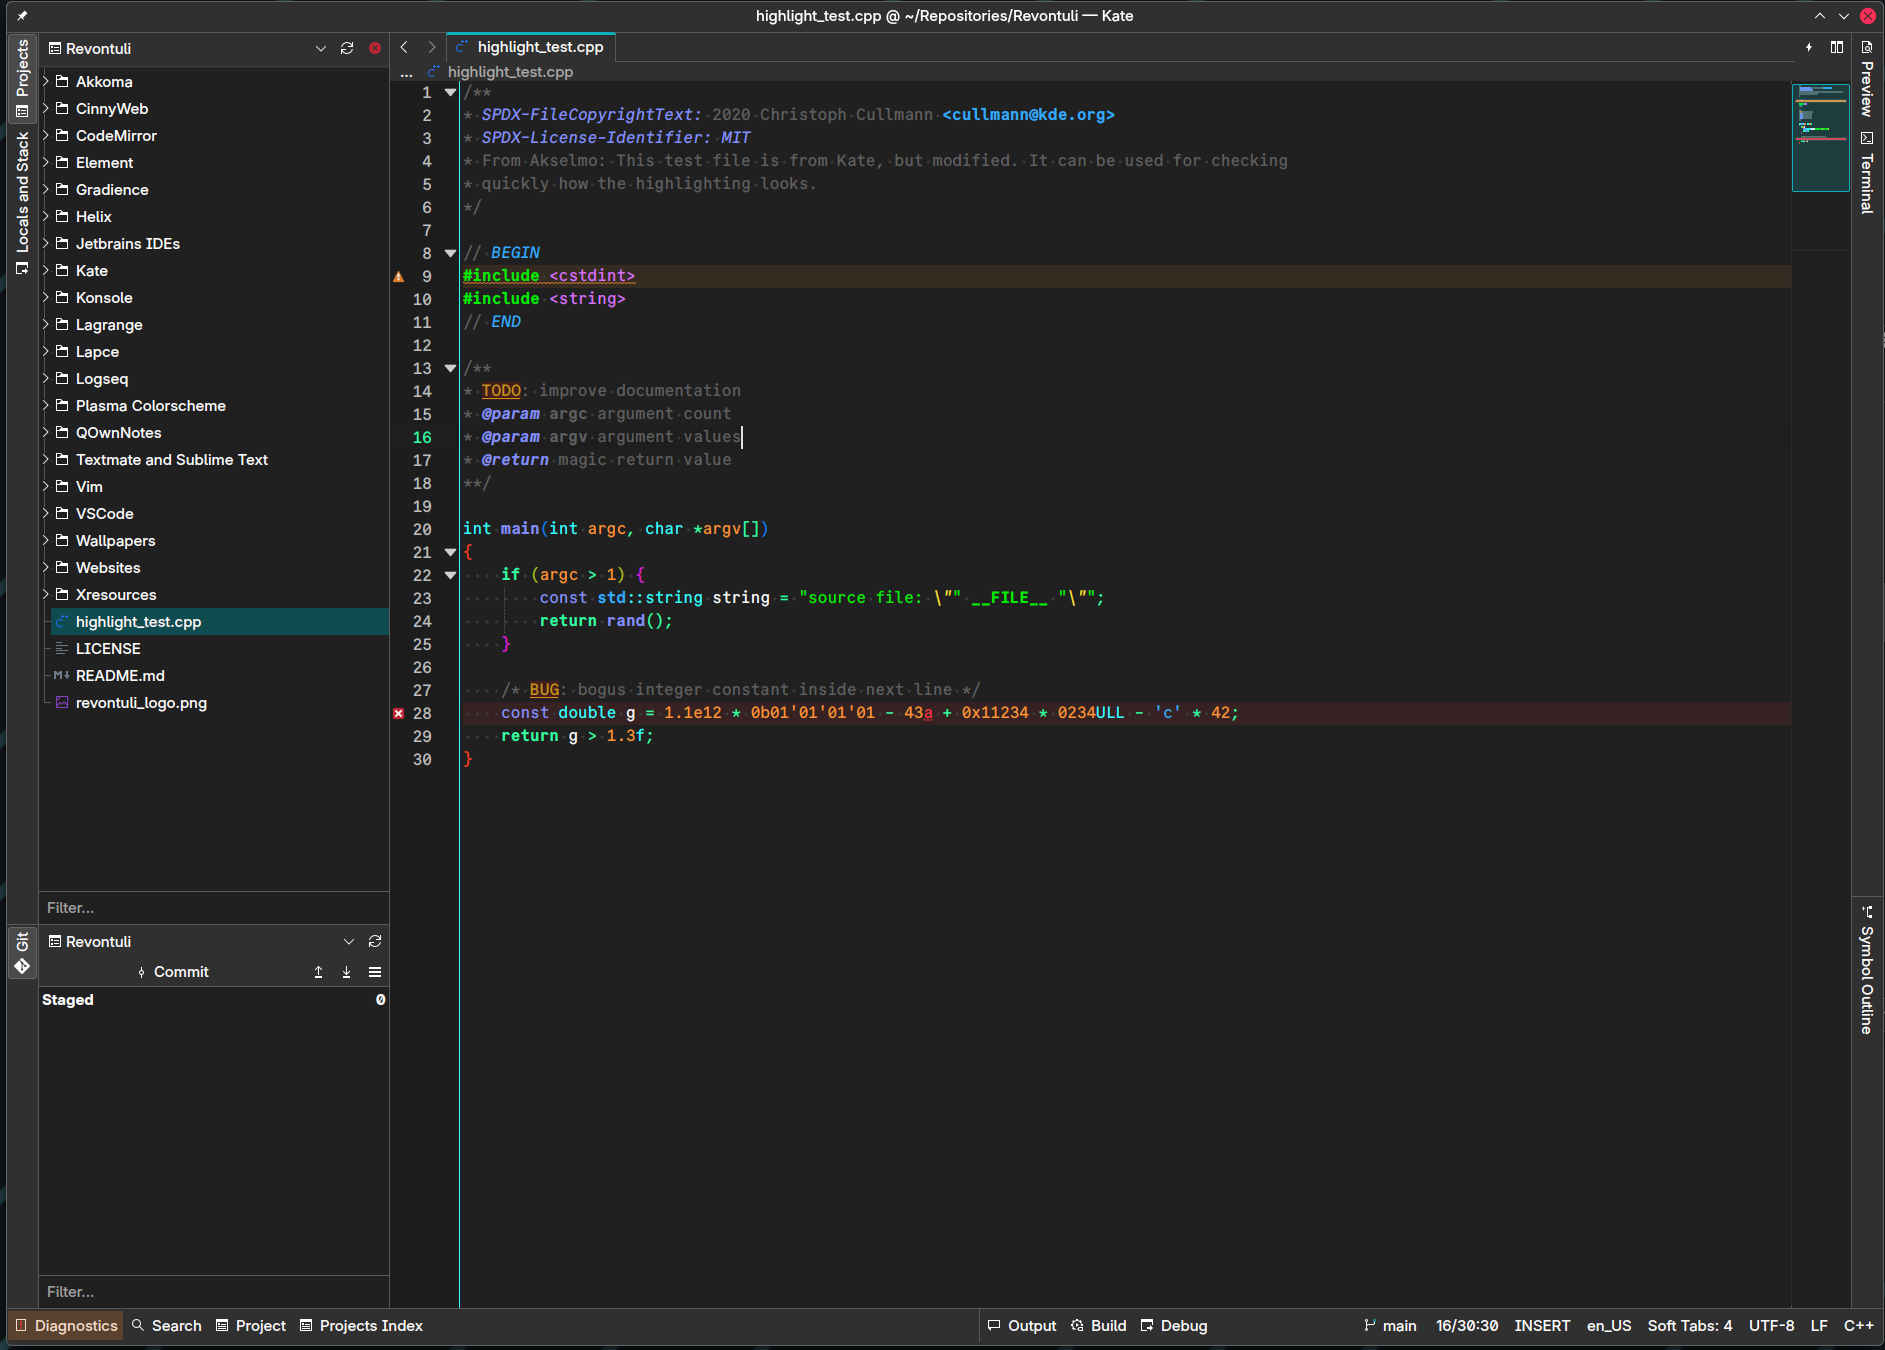
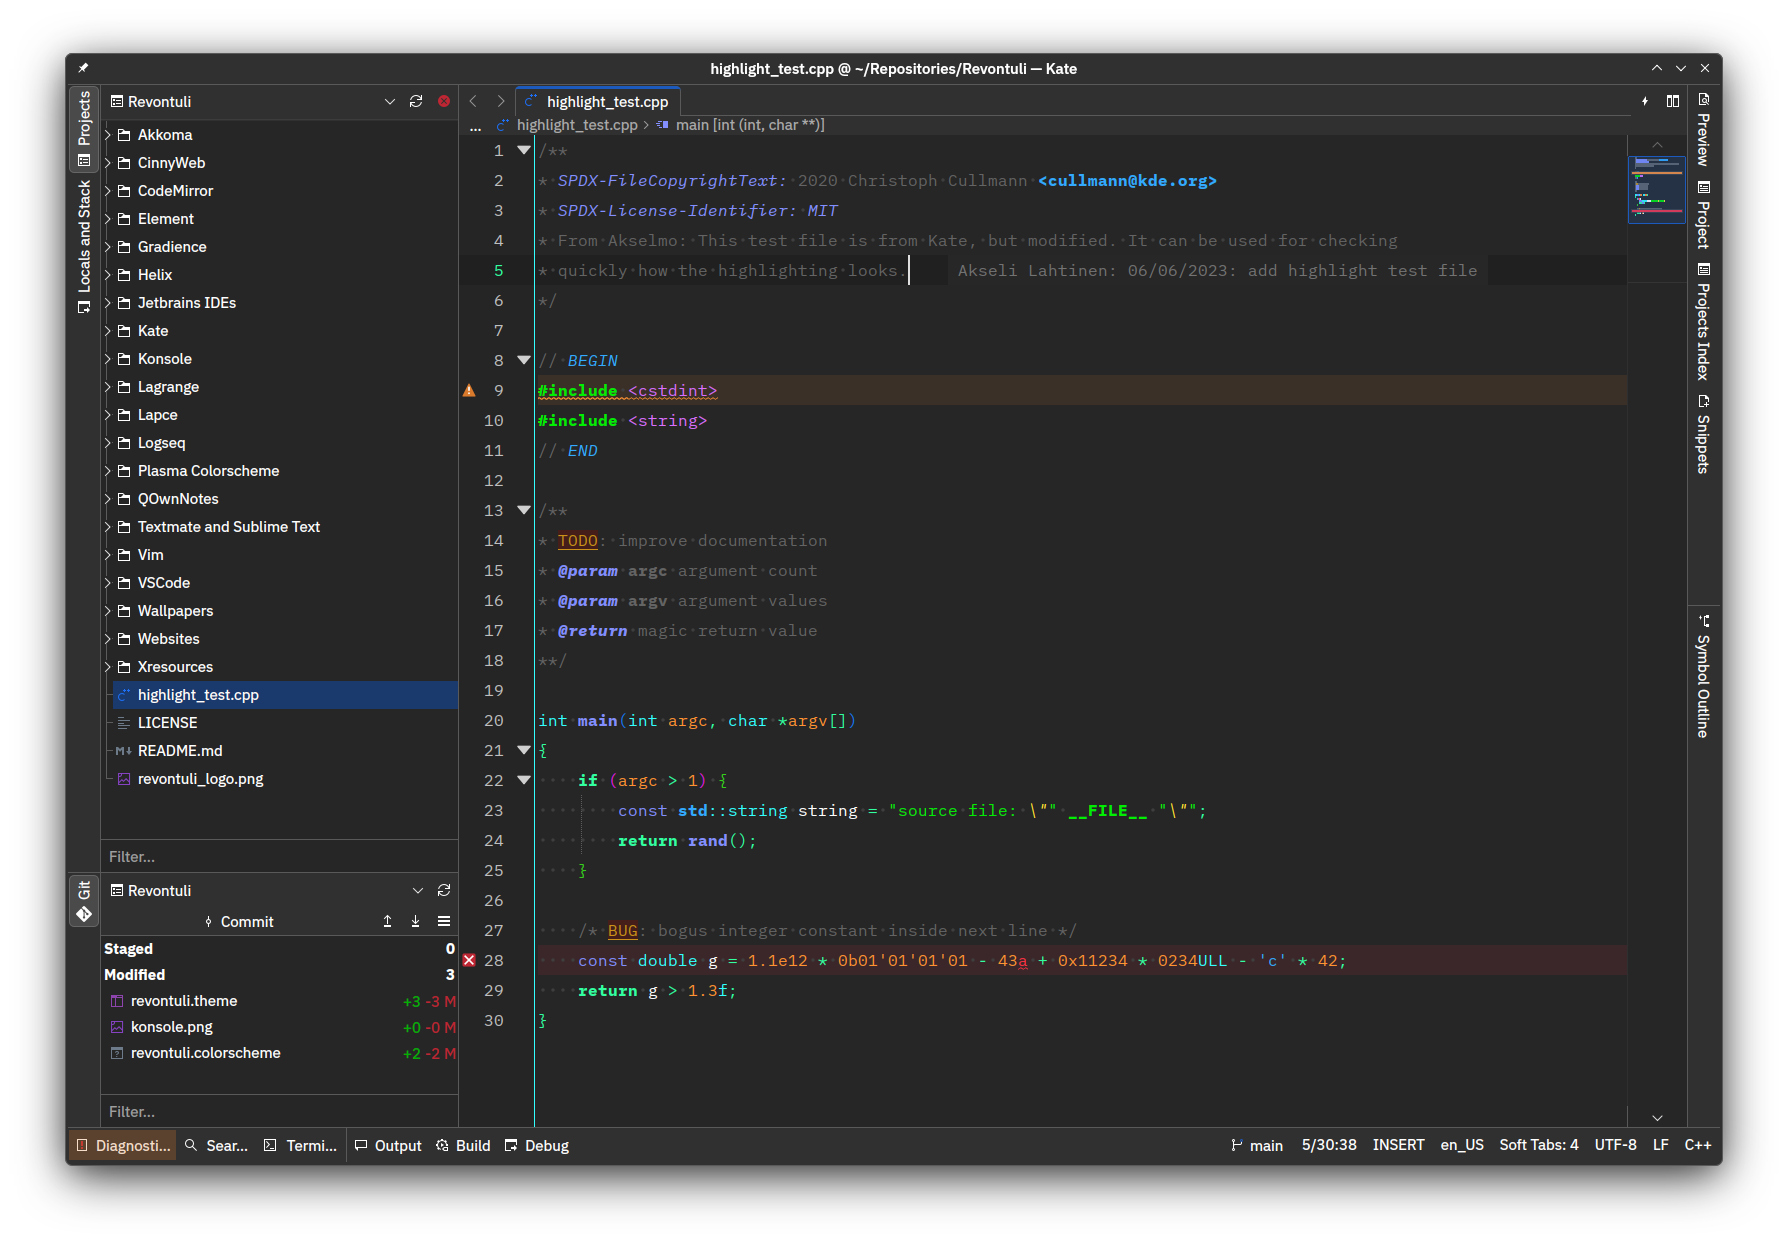
update various themes with lighter bg

diff --git a/README.md b/README.md
@@ -30,8 +30,8 @@ distinction in parts where it is important.
 | Color                                    | Hex       | Usage                |
 | ---------------------------------------- | --------- | -------------------- |
 | <span style="color:#303030">█████</span> | `#303030` | Window Background    |
-| <span style="color:#202020">█████</span> | `#202020` | View Background    |
-| <span style="color:#1d1d1d">█████</span> | `#1d1d1d` | Alternate Background 1 |
+| <span style="color:#282828">█████</span> | `#282828` | View Background    |
+| <span style="color:#202020">█████</span> | `#202020` | Alternate Background 1 |
 | <span style="color:#404040">█████</span> | `#404040` | Buttons Background|
 | <span style="color:#454545">█████</span> | `#454545` | Alternate Background 2 |
 | <span style="color:#ffffff">█████</span> | `#ffffff` | Normal text          |
